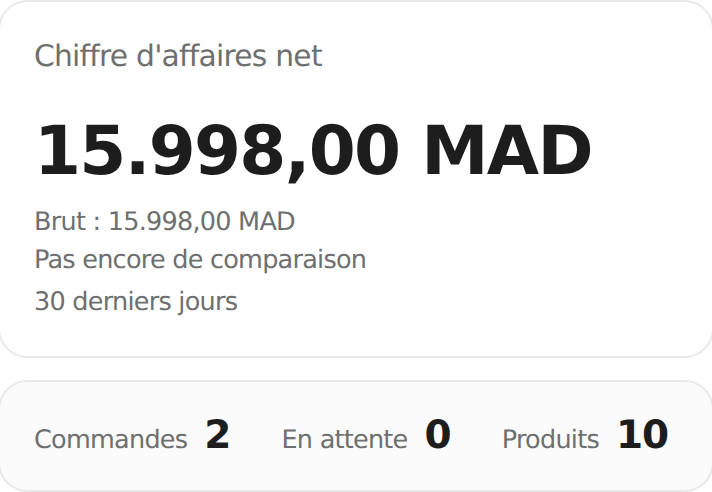
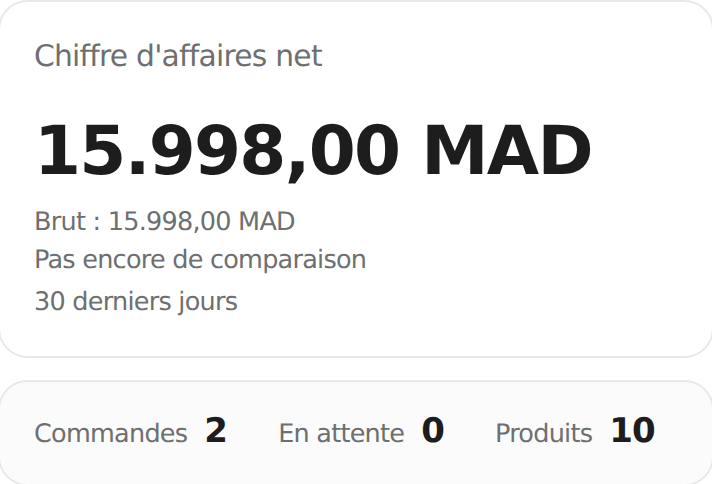
The Cadre guard follows the hero clamp, and the captures match the merged frame

diff --git a/components/layout/admin/cadre-administration.test.tsx b/components/layout/admin/cadre-administration.test.tsx
@@ -159,7 +159,7 @@ describe("le Cadre de l'Administration", () => {
     }
 
     expect(source("components/admin/carte-stat.tsx")).toContain(
-      "clamp(0.5rem,10.5cqi,1.25rem)"
+      "clamp(1.5rem,10.5cqi,3.5rem)"
     )
   })
 })
